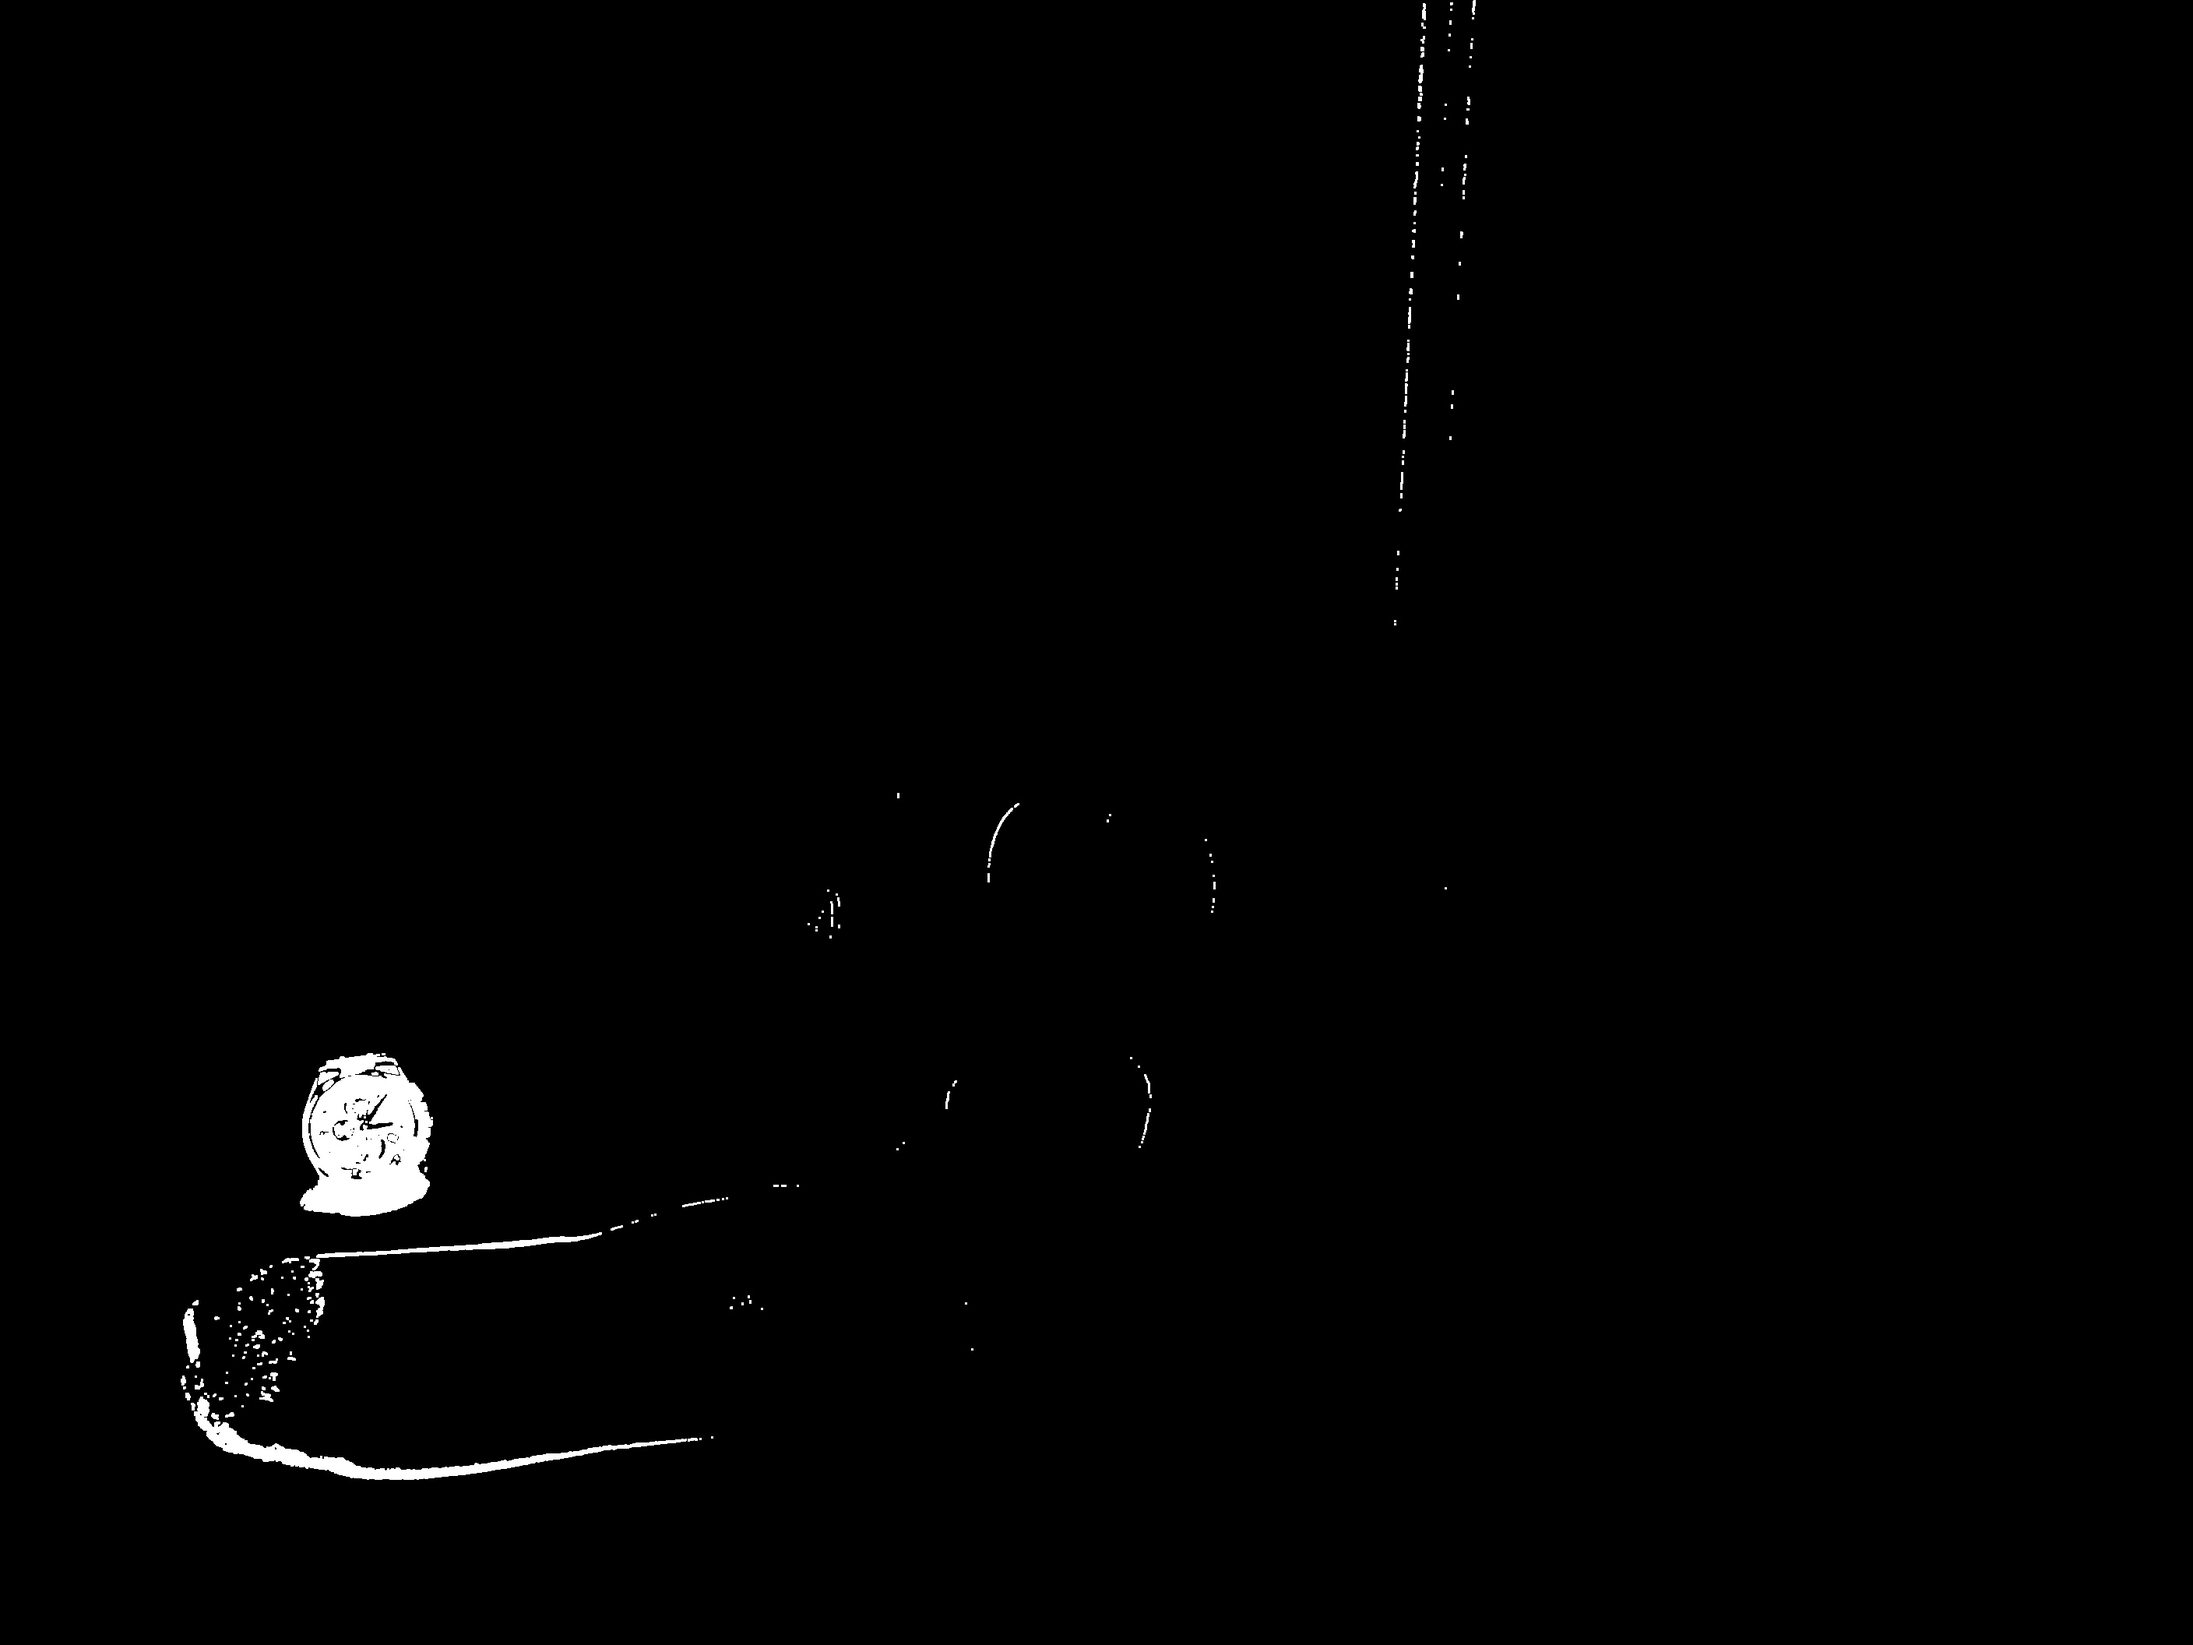
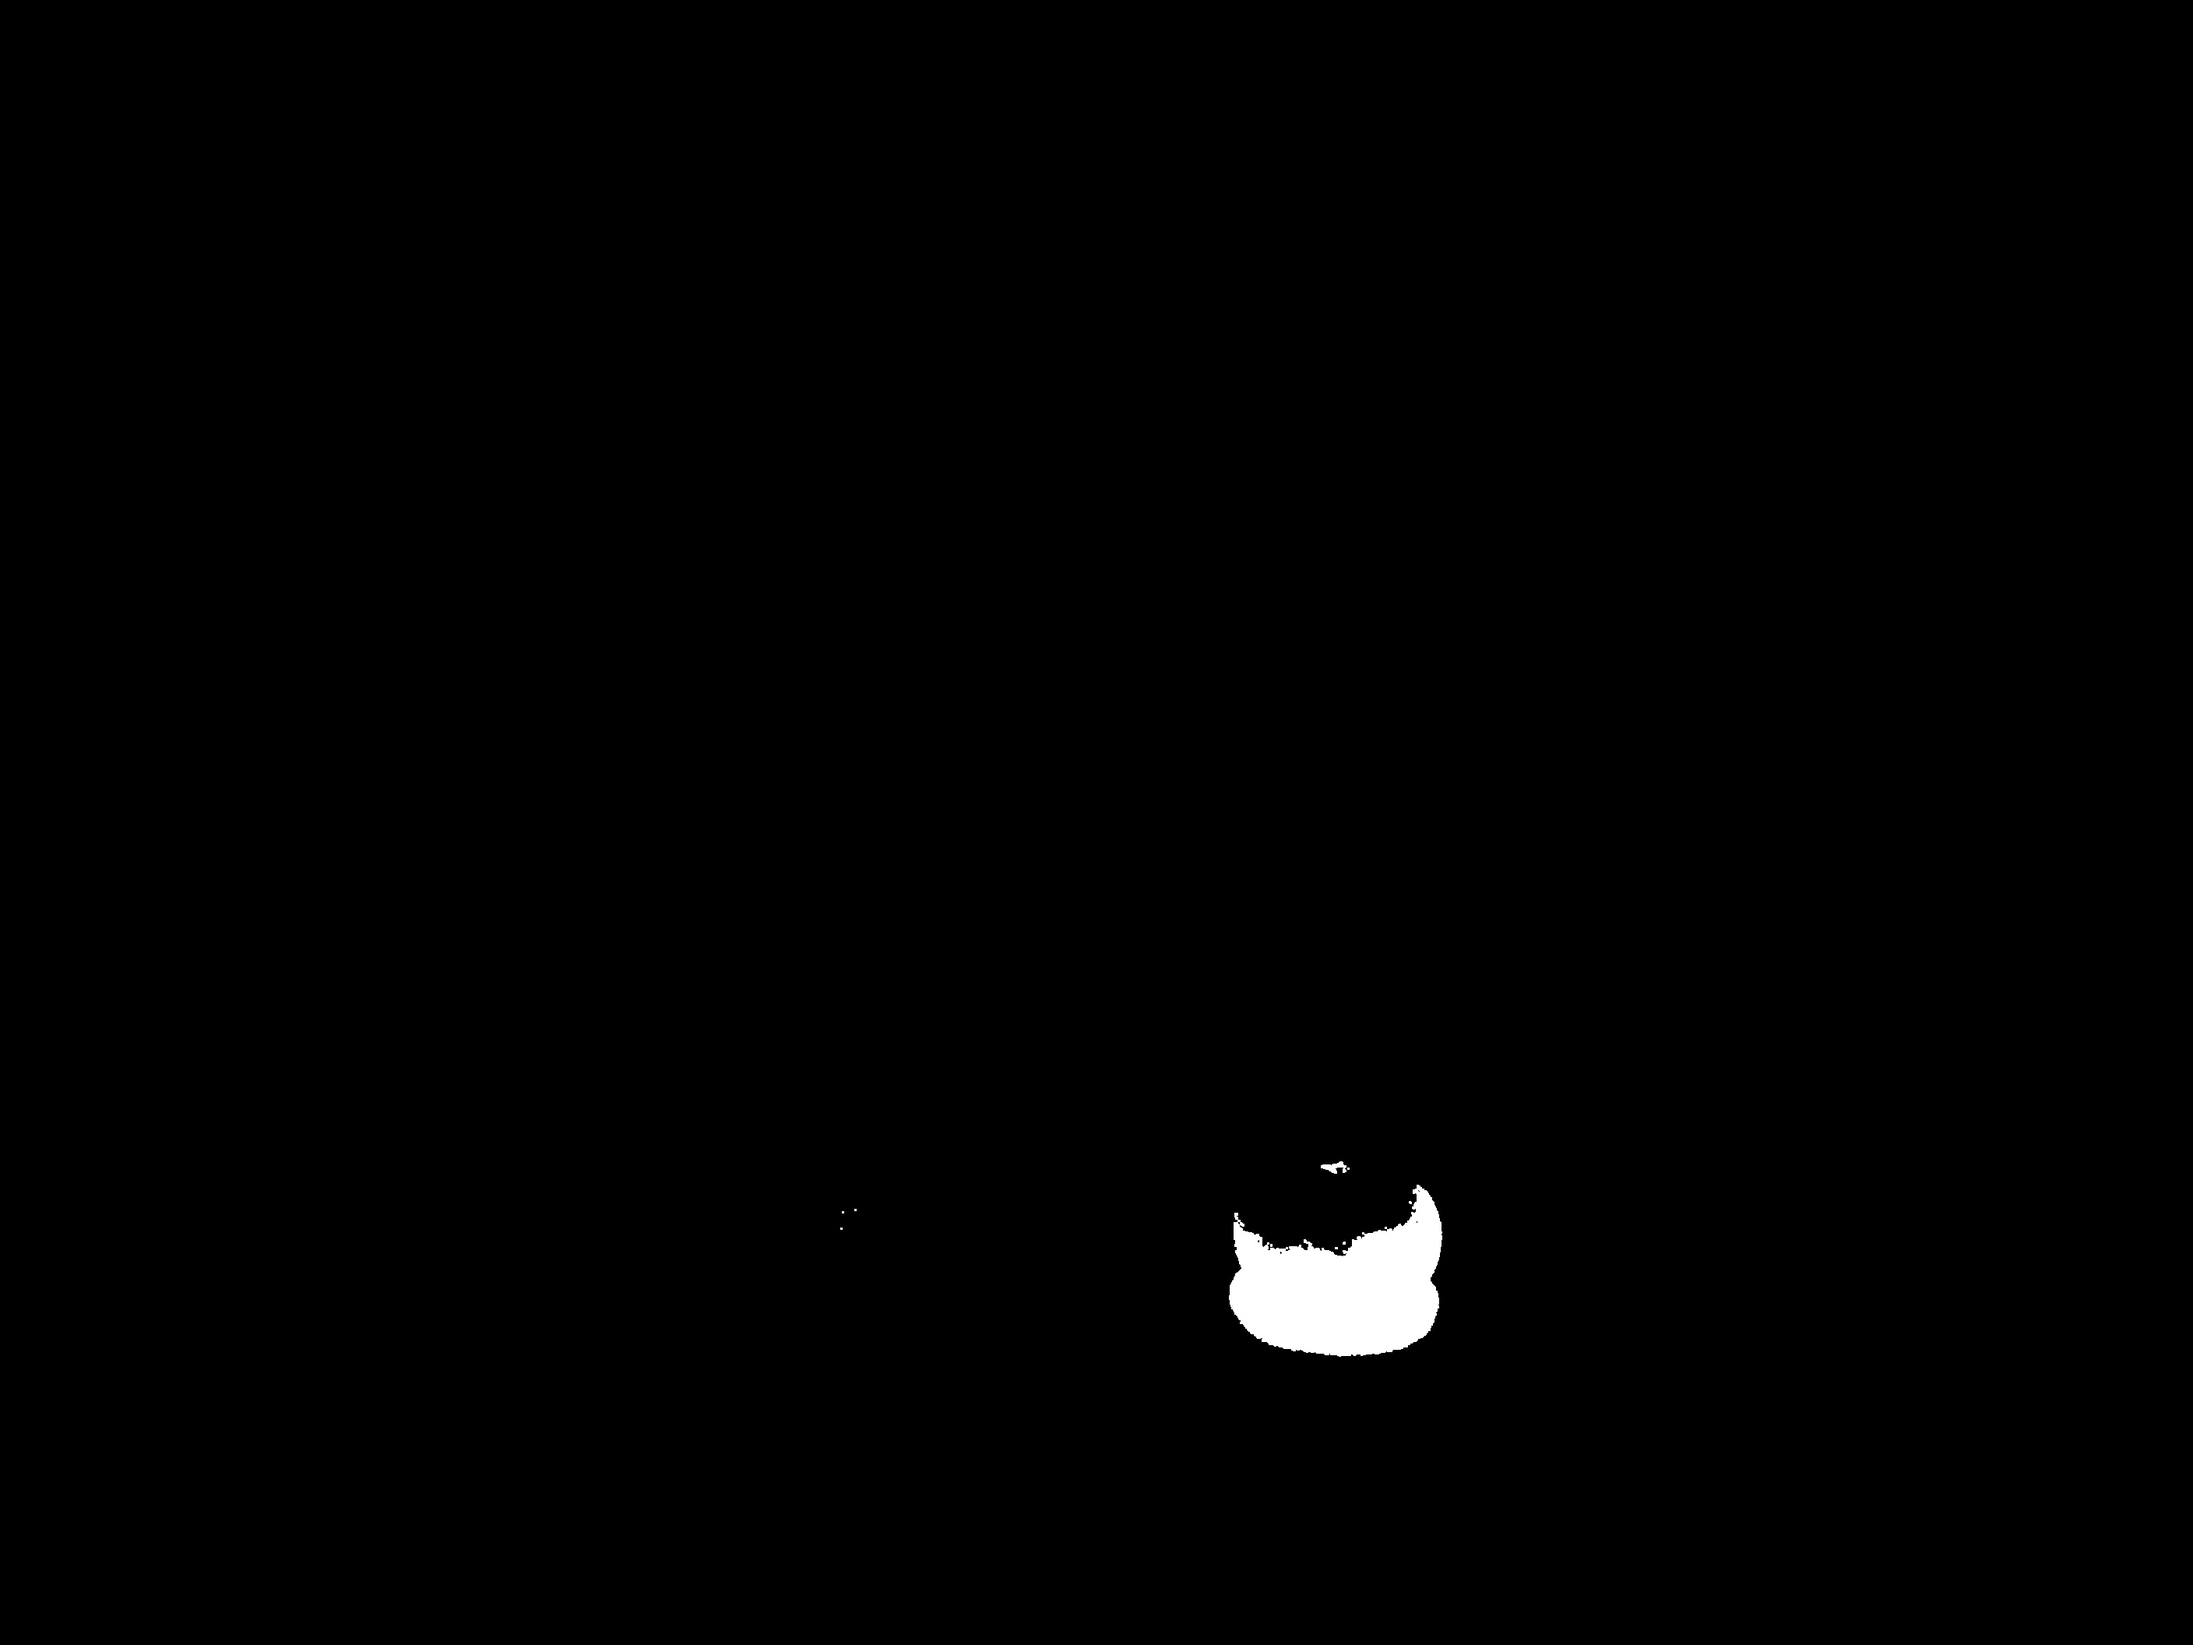
densecapprocess3 add

diff --git a/src/imgProc/FindDiff.java b/src/imgProc/FindDiff.java
@@ -1,12 +1,57 @@
 package imgProc;
 
+import java.util.ArrayList;
+import java.util.List;
+
+import org.opencv.core.Core;
+import org.opencv.core.CvType;
 import org.opencv.core.Mat;
+import org.opencv.core.MatOfPoint;
+import org.opencv.core.MatOfPoint2f;
 import org.opencv.core.Rect;
+import org.opencv.core.RotatedRect;
+import org.opencv.core.Scalar;
+import org.opencv.core.Size;
 import org.opencv.highgui.Highgui;
+import org.opencv.imgproc.Imgproc;
+
 import imgProc.BackgroundSub;
 
 public class FindDiff {
 
+	private Mat diffImg;
+	private Mat beforeImg;
+	private Mat afterImg;
+
+	public Mat getDiffImg() {
+		return diffImg;
+	}
+
+	public void setDiffImg(Mat diffImg) {
+		this.diffImg = diffImg;
+	}
+
+	public Mat getBeforeImg() {
+		return beforeImg;
+	}
+
+	public void setBeforeImg(Mat beforeImg) {
+		this.beforeImg = beforeImg;
+	}
+
+	public Mat getAfterImg() {
+		return afterImg;
+	}
+
+	public void setAfterImg(Mat afterImag) {
+		this.afterImg = afterImag;
+	}
+
+	public FindDiff(Mat dffImg, Mat beforeImg, Mat afterImg){
+		setDiffImg(dffImg);
+		setBeforeImg(beforeImg);
+		setAfterImg(afterImg);
+	}
 
 	/**尤も変化してそうな輪郭の選択
 	 * @param before_imgName
@@ -19,34 +64,115 @@ public class FindDiff {
 
 		//差分計算
 		BackgroundSub bgs = new BackgroundSub(before_imgPath, after_imgPath);
-			
+
 		//輪郭抽出した画像の切り出し
 		Rect[] rects = bgs.findDifference(bgs.getDiffImg());
-		
-		
+
+
 		Mat diff_img = bgs.getDiffImg();
 		Mat after_img = Highgui.imread(after_imgPath);
-		
-		
+
+
 		Rect max_r = new Rect();
 		double max = 0;
-		
+
 		for(int i= 0; i<rects.length ; i++ ){
 			Rect r = rects[i];
-			
+
 			double a = r.width*r.height;
 			double b = diff_img.rows()*diff_img.cols();
 			double result = bgs.checkBoundingBox(r, i);
-			
+
 			if(result > 0.1 && a/b > 0.005){
 				if(max<result){
 					max_r = r;
 				}
 			}	
-			
+
 		}
 		max_r.set(new double[] {max_r.x, max_r.y ,max_r.width,max_r.height});
 		Mat img = new Mat(after_img, max_r);
-		Highgui.imwrite("imgs/processed/rinkaku/1.jpg",img);
+		Highgui.imwrite("imgs/processed/rinkaku.jpg",img);
+	}
+
+	public Rect[] findDifference(Mat diff_img){
+		Mat hierarchy=Mat.zeros(new Size(5,5), CvType.CV_8UC1);
+		Mat invsrc = diff_img.clone();
+		List<MatOfPoint> contours=new ArrayList<MatOfPoint>(); 
+		Imgproc.findContours(invsrc, contours, hierarchy, Imgproc.RETR_EXTERNAL, Imgproc.CHAIN_APPROX_TC89_L1); 
+		Mat dstt=Mat.zeros(new Size(diff_img.width(),diff_img.height()),CvType.CV_8UC3);  
+		Scalar color=new Scalar(255,255,255);  
+		Imgproc.drawContours(dstt, contours, -1, color,1);
+		Rect [] rects = new Rect[contours.size()];
+		int i=0;  
+		for(i=0;i<contours.size();i++)  
+		{  
+			MatOfPoint ptmat= contours.get(i);  
+
+			color=new Scalar(255,0,0);  
+			MatOfPoint2f ptmat2 = new MatOfPoint2f( ptmat.toArray() );  
+			RotatedRect bbox=Imgproc.minAreaRect(ptmat2);  
+			Rect box=bbox.boundingRect();
+			Core.circle(dstt, bbox.center, 5, color,-1);  
+			color=new Scalar(0,255,0);  
+			Core.rectangle(dstt,box.tl(),box.br(),color,2); 
+			rects[i] = box;
+		}
+
+		Highgui.imwrite("imgs/processed/test.png",dstt); 
+
+		return rects;
+	}
+
+	public void selectChangeContour(){
+		//差分計算
+
+		//輪郭抽出した画像の切り出し
+		Rect[] rects = findDifference(diffImg);
+
+
+		Mat diff_img = getDiffImg();
+		Mat after_img = getAfterImg();
+
+
+		Rect max_r = new Rect();
+		double max = 0;
+
+		for(int i= 0; i<rects.length ; i++ ){
+			Rect r = rects[i];
+
+			double a = r.width*r.height;
+			double b = diff_img.rows()*diff_img.cols();
+			double result = checkBoundingBox(r, i);
+
+			if(result > 0.1 && a/b > 0.005){
+				if(max<result){
+					max_r = r;
+				}
+			}	
+
+		}
+		//実際の輪郭よりも大きくBBをとる
+		max_r.set(new double[] {max_r.x*0.9, max_r.y*0.9 ,max_r.width+max_r.x*0.2,max_r.height+max_r.y*0.2});
+		Mat img = new Mat(after_img, max_r);
+		Highgui.imwrite("imgs/processed/rinkaku.jpg",img);
+	}
+
+	public double checkBoundingBox(Rect r, int name){
+
+		Mat diff_img = getDiffImg();
+		Mat cut_img = new Mat(diff_img, r);
+
+		//BB内の差の割合計算
+		double sum = 0;
+		for(int i = 0; i< cut_img.rows(); i++){
+			for(int j = 0; j < cut_img.cols(); j++){
+				sum+= cut_img.get(i, j)[0]/255;
+			}
+		}
+
+		double result = sum/(cut_img.rows()*cut_img.cols());
+
+		return result;	
 	}
 }

diff --git a/src/createCogitiveTask/CompareBoundingBox.java b/src/createCogitiveTask/CompareBoundingBox.java
@@ -1,8 +1,10 @@
 package createCogitiveTask;
 
-import org.opencv.core.Rect;
+import java.io.IOException;
 
+import densecapProcess.DenseCapProcess;
 import imgProc.BackgroundSub;
+import imgProc.FindDiff;
 
 public class CompareBoundingBox {
 
@@ -57,18 +59,33 @@ public class CompareBoundingBox {
 				}
 			}
 			
+			//差分領域とキャプションの重なりがないときは輪郭抽出を行う
 			if(datalist.getDatas().isEmpty()){
 				System.out.println("empty");
 				//輪郭のところを再びDneseCap
+				//変化領域
+//				FindDiff fd = new FindDiff(bgs.getDiffImg(),bgs.getBeforeImg(),bgs.getAfterImg());
+//				fd.selectChangeContour();
+//				//densecapに通す
+//				try {
+//					DenseCapProcess.DenseCapScript3();
+//				} catch (IOException | InterruptedException e) {
+//					// TODO 自動生成された catch ブロック
+//					e.printStackTrace();
+//				}
+				
 			}
-			
-			//テスト
-			Rect[] rects = bgs.findDifference(bgs.getDiffImg());
-			System.out.println(rects.length);
-			for(int i= 0; i<rects.length ; i++ ){
-				Rect r = rects[i];
-				bgs.checkBoundingBox(r, i);
+			//普通に差分，輪郭切り出し、denseをやってみた
+			FindDiff fd = new FindDiff(bgs.getDiffImg(),bgs.getBeforeImg(),bgs.getAfterImg());
+			fd.selectChangeContour();
+			//densecapに通す
+			try {
+				DenseCapProcess.DenseCapScript3();
+			} catch (IOException | InterruptedException e) {
+				// TODO 自動生成された catch ブロック
+				e.printStackTrace();
 			}
+
 			setDatalist0(datalist);
 		}
 

diff --git a/src/createCogitiveTask/ViewApp.java b/src/createCogitiveTask/ViewApp.java
@@ -17,8 +17,6 @@ import org.opencv.core.Core;
 
 import densecapProcess.DenseCapProcess;
 import fileUtils.FileUtils;
-import imgProc.FindDiff;
-
 import java.awt.event.ActionListener;
 
 public class ViewApp {
@@ -169,17 +167,21 @@ public class ViewApp {
 				datalistList = densecapList1.toDataListList();
 				datalistList.addDataList(tmp.getDatalistList().get(0));
 
-				//BB比較
+				//差分と説明文BB比較
 				CompareBoundingBox cbb = new CompareBoundingBox();
 				cbb.compareBoundingBox(datalistList, QuestionType.APPEARANCE);
 				
-				//テスト
+				
+				//候補とキャプション群比較
 				CompareCap cc = new CompareCap();
 				cc.checkCaption0(datalistList);
 				for(Data d: cc.getDatalist0().getDatas()){
 					System.out.println(d.getCaption());
 				}
 				System.out.println("test");
+									
+				
+
 				
 				
 				confirmpanel.setDataListList(datalistList);
@@ -324,11 +326,12 @@ public class ViewApp {
 		}
 		public void actionPerformed(ActionEvent e) {
 
-			String path1 = "./imgs/"+in1.getName();
-			String path2= "./imgs/"+in2.getName();
+//			String path1 = "./imgs/"+in1.getName();
+//			String path2= "./imgs/"+in2.getName();
 			
-			FindDiff fd = new FindDiff();
-			fd.selectChangeContour(path1, path2);
+			//FindDiff fd = new FindDiff();
+			//fd.selectChangeContour(path1, path2);
+			System.out.println("このボタンの機能はありません");
 			
 		}
 	}

diff --git a/src/densecapProcess/DenseCapProcess.java b/src/densecapProcess/DenseCapProcess.java
@@ -66,6 +66,34 @@ public class DenseCapProcess {
 		
 	}
 	
+	public static void DenseCapScript3() throws IOException, InterruptedException{
+		ProcessBuilder pb = new ProcessBuilder("sh","scripts/densecap3.sh");
+
+		pb.redirectErrorStream(true); //デフォルトはfalse：マージしない（標準出力と標準エラーは別々）
+
+		Process process = null;
+		process = pb.start();
+		//Processの使い方は後述
+		int ret = 0;
+		ret = process.waitFor();
+		System.out.println("戻り値：" + ret);
+		
+		InputStream is = process.getInputStream();	//標準出力
+		printInputStream(is);
+		process.waitFor();
+		
+		
+		File in = new File("/home/hizukuri/densecap/vis/data/results.json");
+		File out = new File("./imgs/processed/results3.json");
+		try {
+			FileUtils.copyFile(in, out);
+		} catch (IOException e1) {
+			// TODO 自動生成された catch ブロック
+			e1.printStackTrace();
+		}
+		
+	}
+	
 	public static void printInputStream(InputStream is) throws IOException {
 		BufferedReader br = new BufferedReader(new InputStreamReader(is));
 		try {

diff --git a/src/imgProc/BackgroundSub.java b/src/imgProc/BackgroundSub.java
@@ -31,6 +31,24 @@ public class BackgroundSub {
 
 	private Mat diffImg;
 	private Mat homoImg;
+	private Mat beforeImg;
+	private Mat afterImg;
+
+	public Mat getBeforeImg() {
+		return beforeImg;
+	}
+
+	public void setBeforeImg(Mat beforeImg) {
+		this.beforeImg = beforeImg;
+	}
+
+	public Mat getAfterImg() {
+		return afterImg;
+	}
+
+	public void setAfterImg(Mat afterImg) {
+		this.afterImg = afterImg;
+	}
 
 	public Mat getHomoImg() {
 		return homoImg;
@@ -72,6 +90,9 @@ public class BackgroundSub {
 		Mat img_before = Highgui.imread(beforeImgpath, 0);
 		Mat img_after = Highgui.imread(afterImgpath, 0);
 
+		setBeforeImg(Highgui.imread(beforeImgpath));
+		setAfterImg(Highgui.imread(afterImgpath));
+		
 		//		//特徴検出
 		//		FeatureDetector detector = FeatureDetector.create(4); //4 = SURF 
 		//		MatOfKeyPoint keypoints_object = new MatOfKeyPoint();
